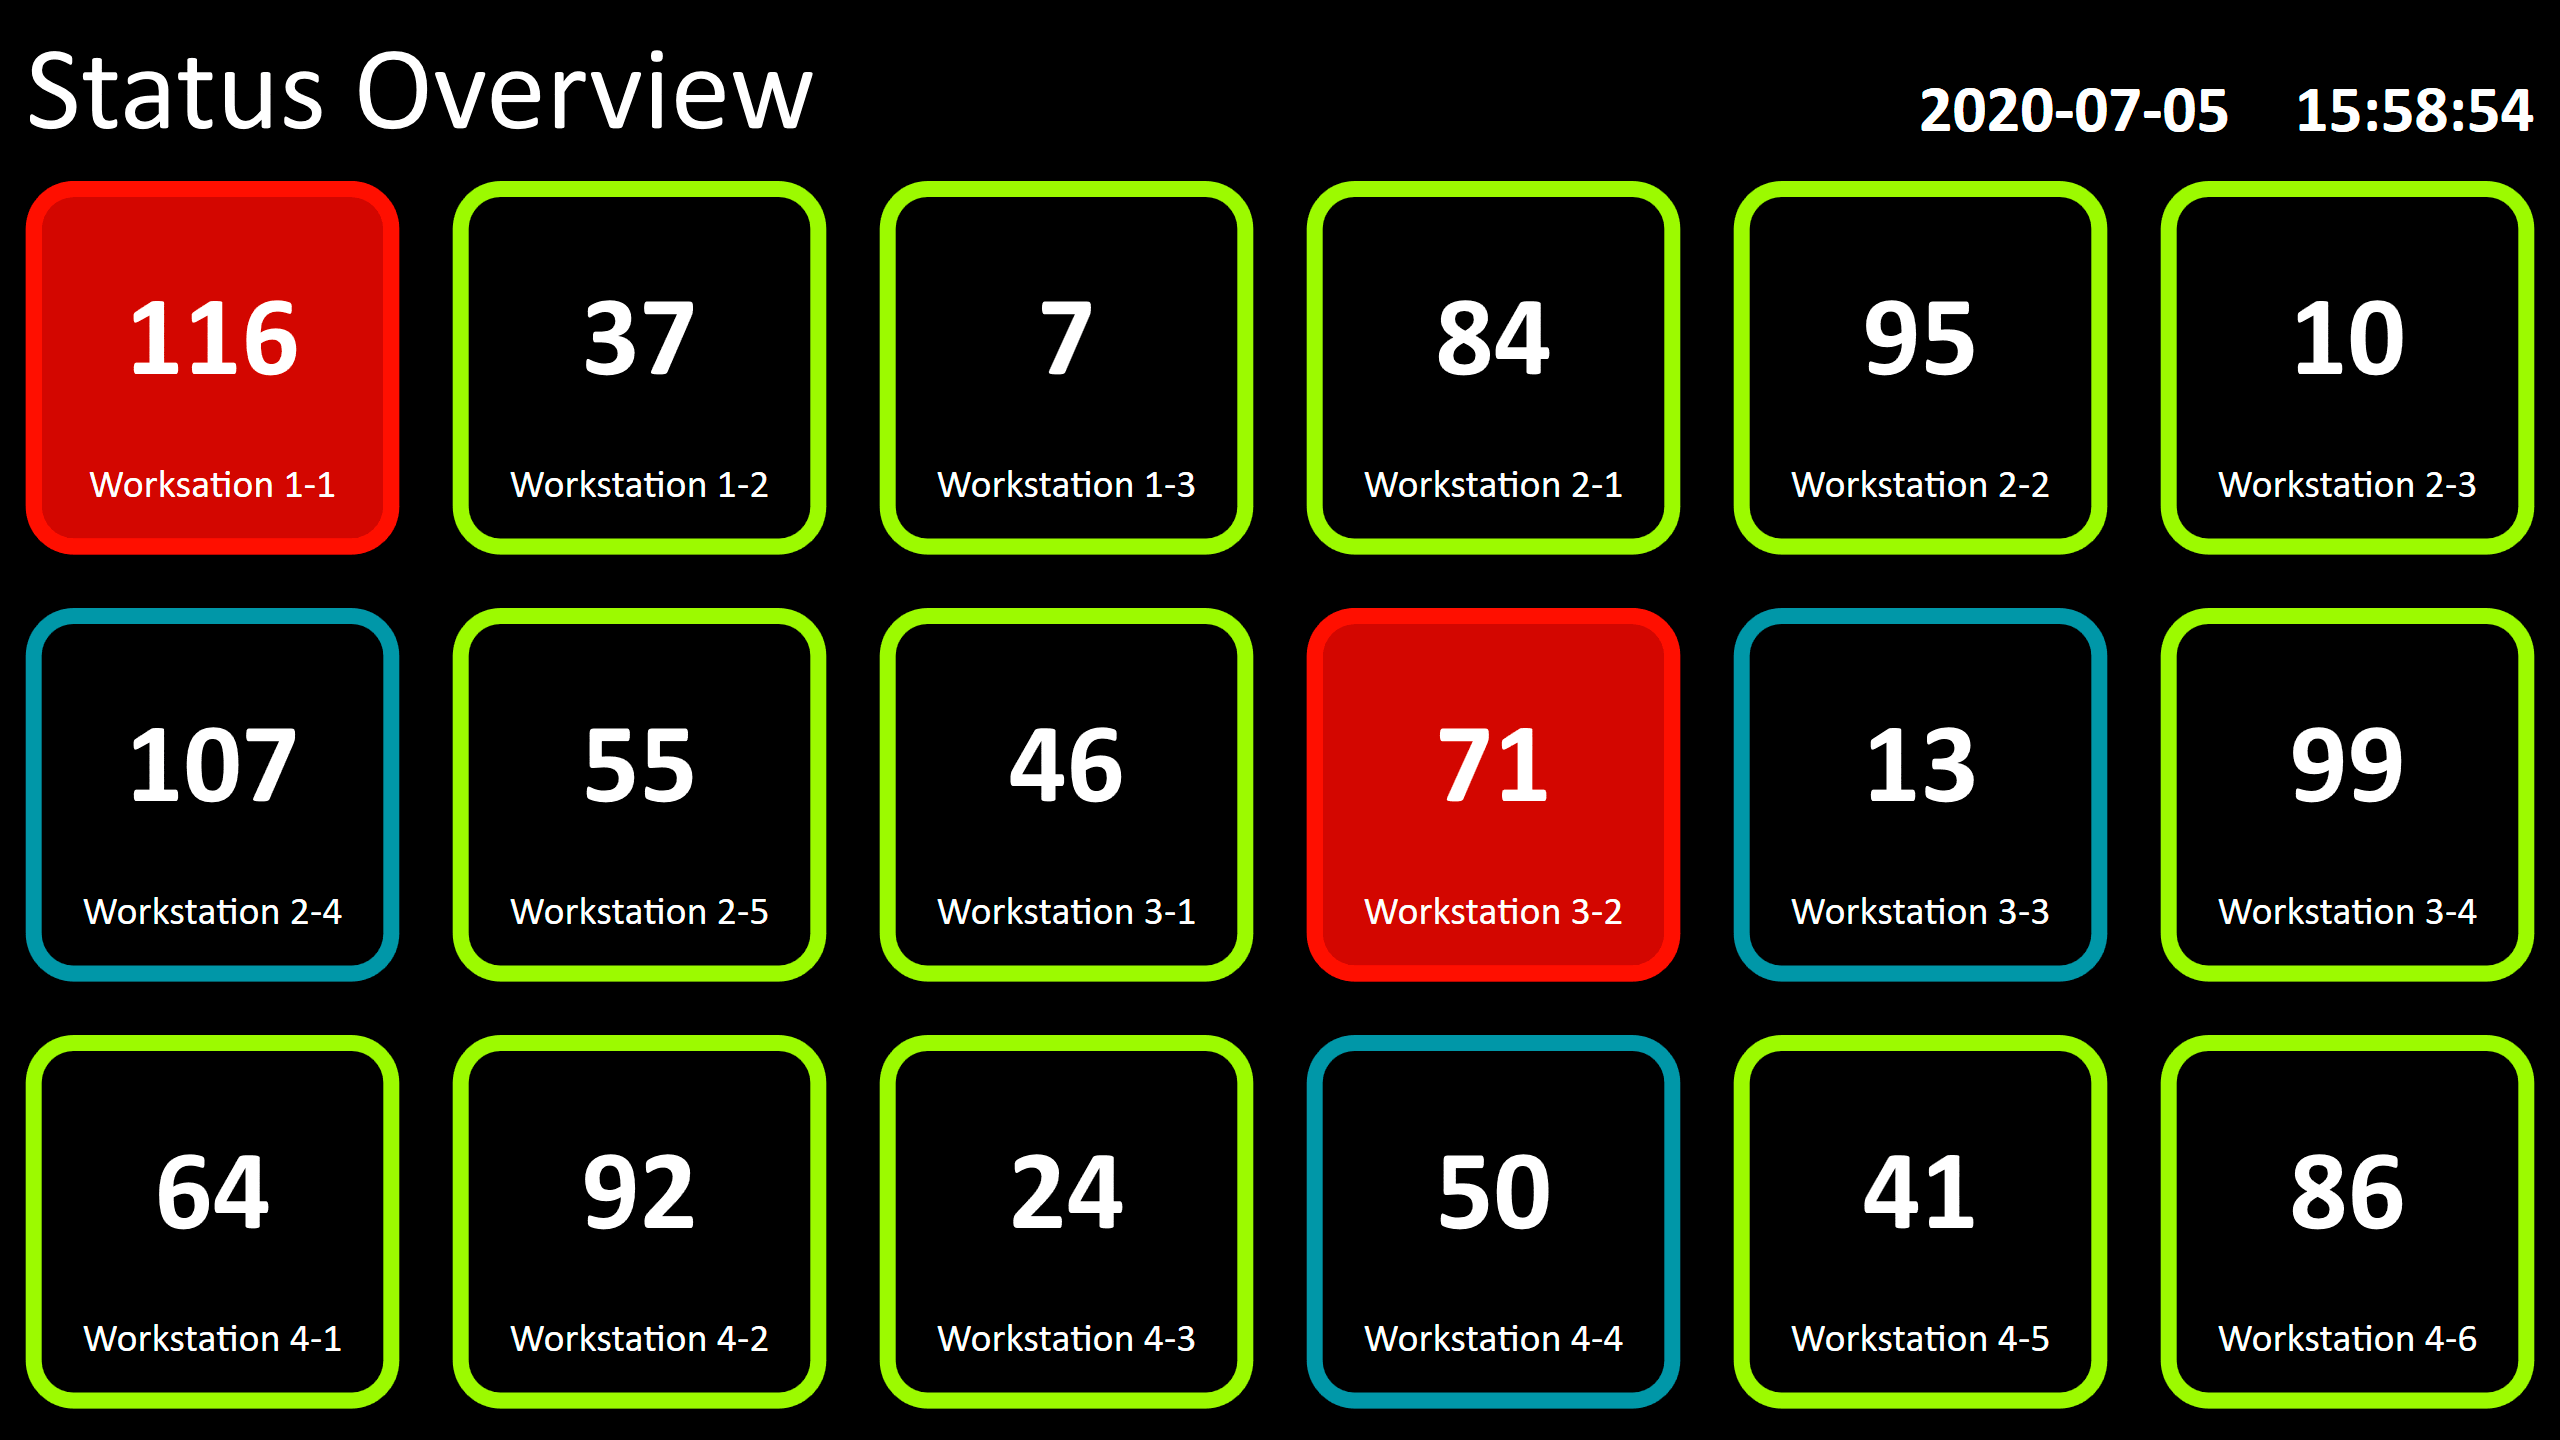
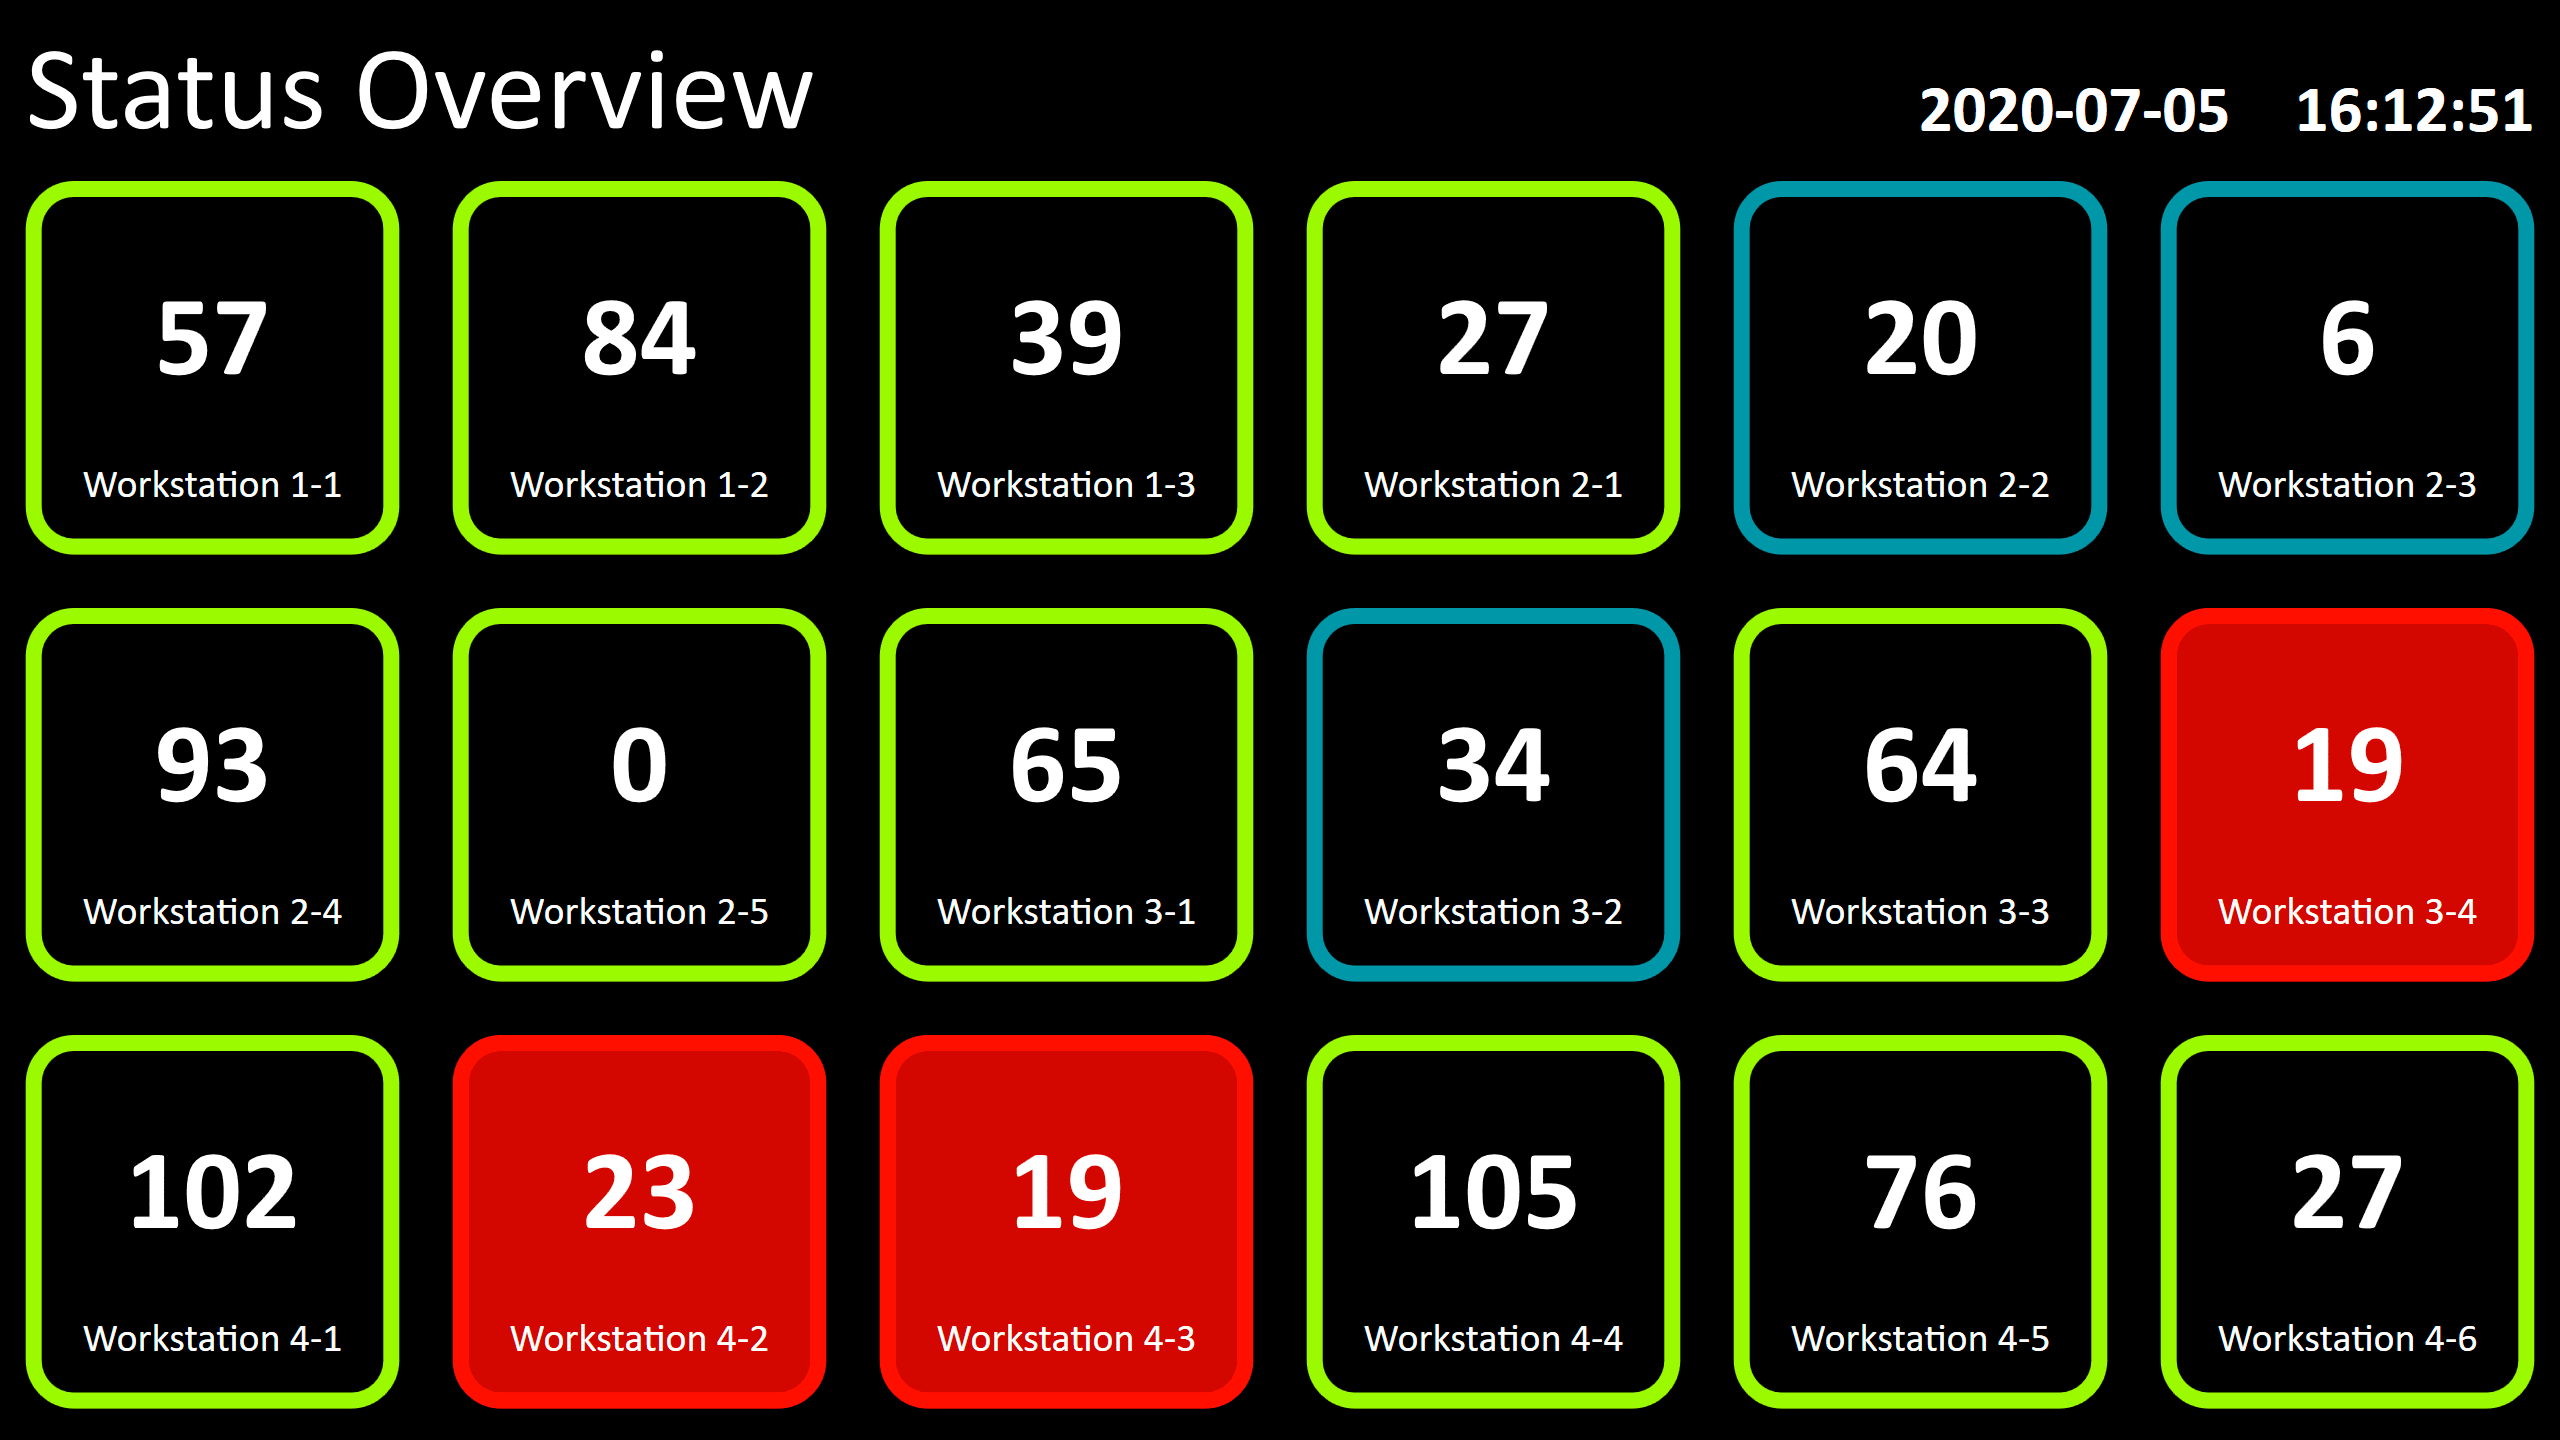
Added screenshots and text

diff --git a/_templates/Edge-Status-Overview/index.md b/_templates/Edge-Status-Overview/index.md
@@ -1,8 +1,8 @@
 ---
 layout: article
-title: Edge Status Overview
+title: Übersicht über den Status von Arbeitsplätzen mit Peakboard Edge
 description: 
-  - Mit dieser Vorlage ...
+  - Übersicht über den Status von bis zu 18 Arbeitsplätzen. Jeder Arbeitsplatz kann seinen Status mit Hilfe von Peakboard Edge melden. Grün bedeutet alles ist in Ordnung, Blau bedeutet geplante Pause und Rot bedeutet es gibt an diesem Arbeitsplatz ein Problem.
 lang: de
 weight: 2000
 isDraft: true
@@ -10,9 +10,9 @@ ref: Edge-Status-Overview
 category:
   - Edge
   - Interaktion
-image: Strategisches-Logistik-Dashboard.png
-image_thumbnail: Strategisches-Logistik-Dashboard_thumbnail.png
-download: Strategisches-Logistik-Dashboard.pbmx
+image: Edge-Status-Uebersicht.png
+image_thumbnail: Edge-Status-Uebersicht_thumbnail.png
+download: Edge-Status-Uebersicht.pbmx
 overview_description:
 overview_benefits:
 overview_data_sources:

diff --git a/_templates/Edge-Status-Overview/en.md b/_templates/Edge-Status-Overview/en.md
@@ -1,8 +1,8 @@
 ---
 layout: article
-title: Edge Status Overview
+title: Overview of the status of workstations with Peakboard Edge
 description: 
-  - This shopfloor ...
+  - Overview of the status of up to 18 workstations. Each workstation can report its status using Peakboard Edge. Green means everything is ok, blue means scheduled break and red means there is a problem at this workstation.
 lang: en
 weight: 2000
 isDraft: true
